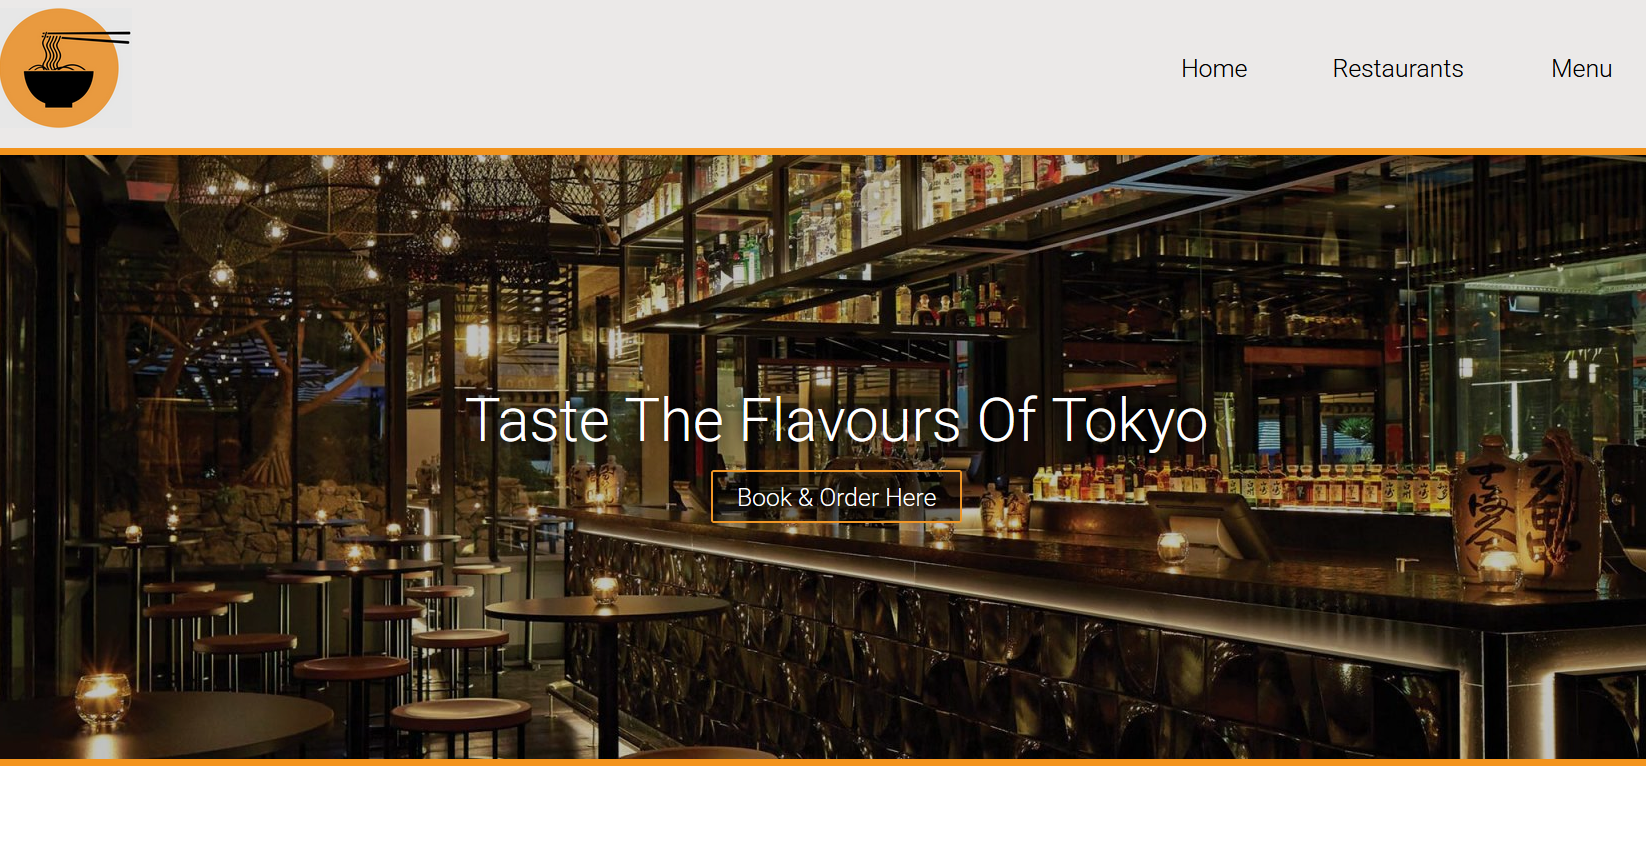
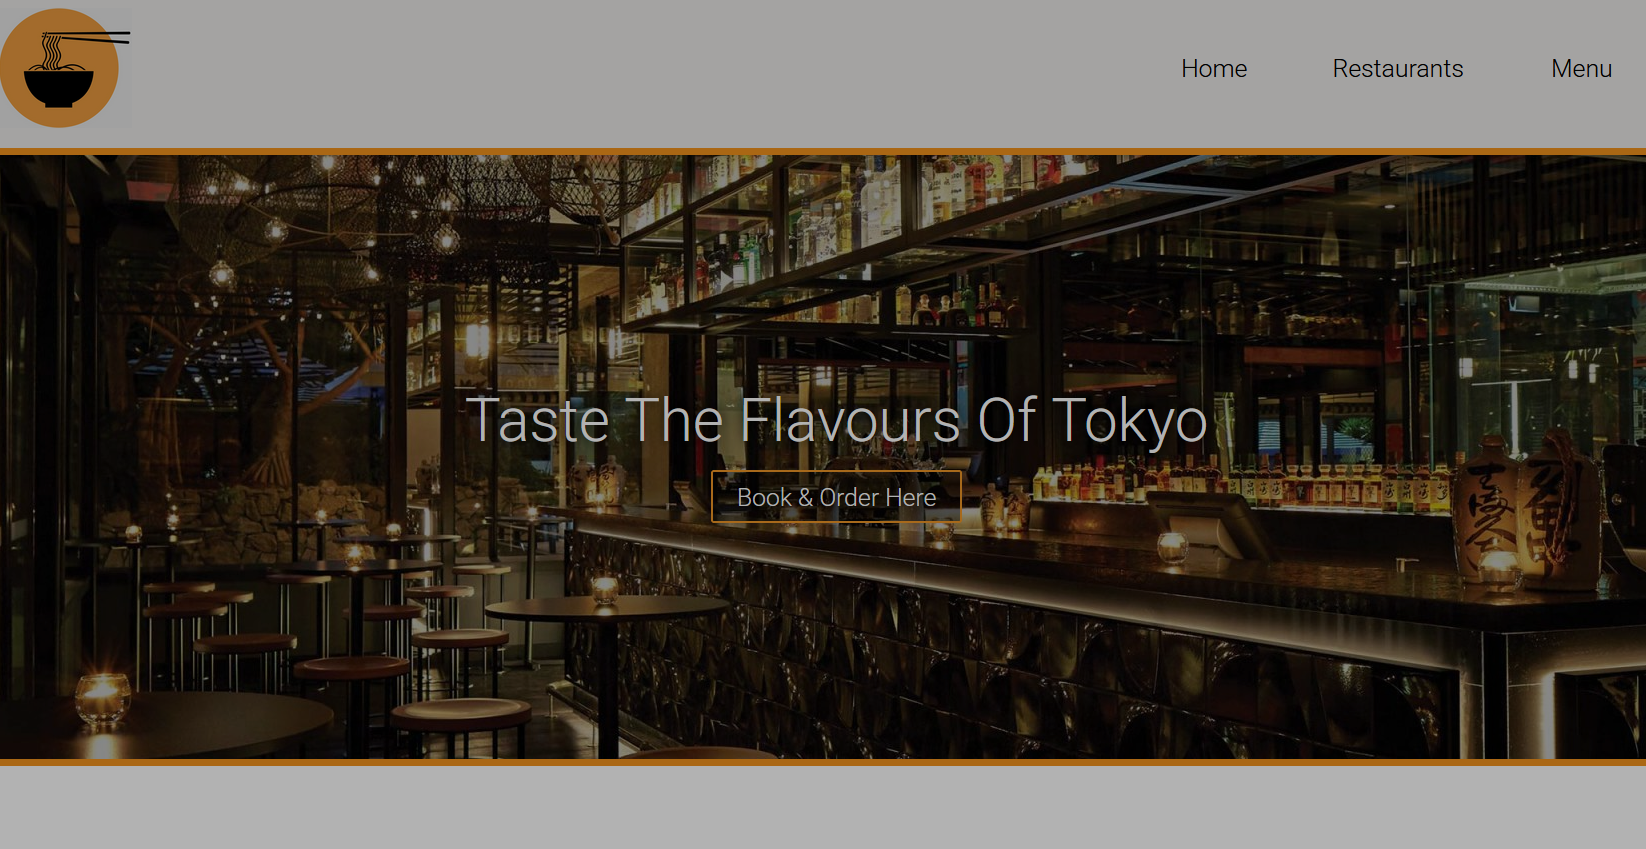
Image Updated to improve visibilty, other small CSS changes, making the headings in the NavBar all equal across

diff --git a/src/App.css b/src/App.css
@@ -62,9 +62,10 @@ body {
 .navigationBar {
   display: grid;
   place-items: center;
-  grid-template-columns: repeat(5, 20%);
+  grid-template-columns: repeat(5, auto);
   color:  rgb(255, 255, 255);
-  height: 80px;
+  /* background-color: white; */
+  height: 9%;
   width: 50%;
   font-weight: bolder;
   font-size: 1.5vw;
@@ -76,7 +77,7 @@ body {
 
 .navigationItem {
   cursor: pointer;
-  padding: 8px 5px;
+  padding: 8px 20px;
   position: relative;
   top: 4%;
   border-bottom: 5px solid rgba(255, 123, 0, 0.301);
@@ -105,17 +106,18 @@ body {
 }
 
 .logo {
-  display: grid;
-  place-items: center;
+  display: flex;
+  justify-content: center;
+  align-items: center;
   border-radius: 15px;
   border: 2px solid white;
   box-shadow: 0px 0px 5px rgb(0, 0, 97);
   background-color: rgb(255, 255, 255);
   color:  rgb(0, 0, 0);
-  height: 7vh;
-  width: 3.5vw;
+  height: 7%;
+  width: 3.5%;
   font-weight: bold;
-  font-size: 20px;
+  font-size: 15px;
 
   background-image: url('/public/logo.png');
   background-position: center;
@@ -124,7 +126,7 @@ body {
 
   position: absolute;
   left: 21%;
-  top: 10.5%;
+  top: 11.5%;
 }
 
 .quickLinks {
@@ -146,7 +148,7 @@ body {
   border-radius: 50px;
   /* box-shadow: 0px 0px 5px rgb(255, 255, 255); */
   height: 4.2vh;
-  width: 1.96vw;
+  width: 2.1vw;
 
   background-image: url('/public/LinkedIn\ Logo.jpg');
   background-position: center;
@@ -163,7 +165,7 @@ body {
   /* box-shadow: 0px 0px 5px rgb(255, 255, 255); */
   background-color: rgb(255, 255, 255);
   height: 4.2vh;
-  width: 1.96vw;
+  width: 2.1vw;
 
   background-image: url('/public/GitHub\ Logo.png');
   background-position: center;
@@ -239,7 +241,8 @@ a:hover {
   /* transition-duration: 0.3s; */
 }
 
-.individualAppLinkImage {
+.individualAppLinkImage { 
+  /* Photopea: 30% Fill Layer on Top of Image for button backgrounds */
   display: relative;
 
   border: 3px solid white;
@@ -268,7 +271,11 @@ a:hover {
 }
 
 .lifePlanner {
-  background-image: url("/public/lifePlanner.png");
+  background-image: url("/public/lifePlanner.png"), linear-gradient(rgb(0, 0, 0), rgb(0, 0, 0));
+  background-size: cover;
+  background-position: center;
+  width: 100%;
+  height: 60%;
 }
 
 .planFinder {
@@ -298,7 +305,7 @@ a:hover {
 
 .imageTextOverlay {
   color: white;
-  font-size: 1.5vw;
+  font-size: 1.8vw;
   text-shadow: 0px 0px 15px black;
 }
 

diff --git a/src/App.js b/src/App.js
@@ -33,7 +33,7 @@ function App() {
                 <p className="imageTextOverlay">Resume</p>
               </button>
             </a>
-            <p>Digital link to my resume <br/  >(Note: Updated on the 12/03)</p>
+            <p>(Updated on the 12/03)</p>
           </div>
 
           <div className ="individualAppContainers">
@@ -42,7 +42,7 @@ function App() {
                 <p className="imageTextOverlay">Academic Transcript</p>
               </button>
             </a>
-            <p>A link to my academic transcript (Note: Unofficial)</p>
+            <p>(Unofficial)</p>
           </div>
 
         </div>
@@ -74,7 +74,7 @@ function App() {
                   <p className="imageTextOverlay">Life Planner</p>
                 </button>
               </a>
-              <p>Planner is an Interactive One-Page Planning Website To Store Plans & See Upcoming Plans (Built in React)</p>
+              <p>Life Planner is an Interactive One-Page Planning Website To Store Plans & See Upcoming Plans (Built in React)</p>
             </div>
 
             <div className="individualAppContainers">
